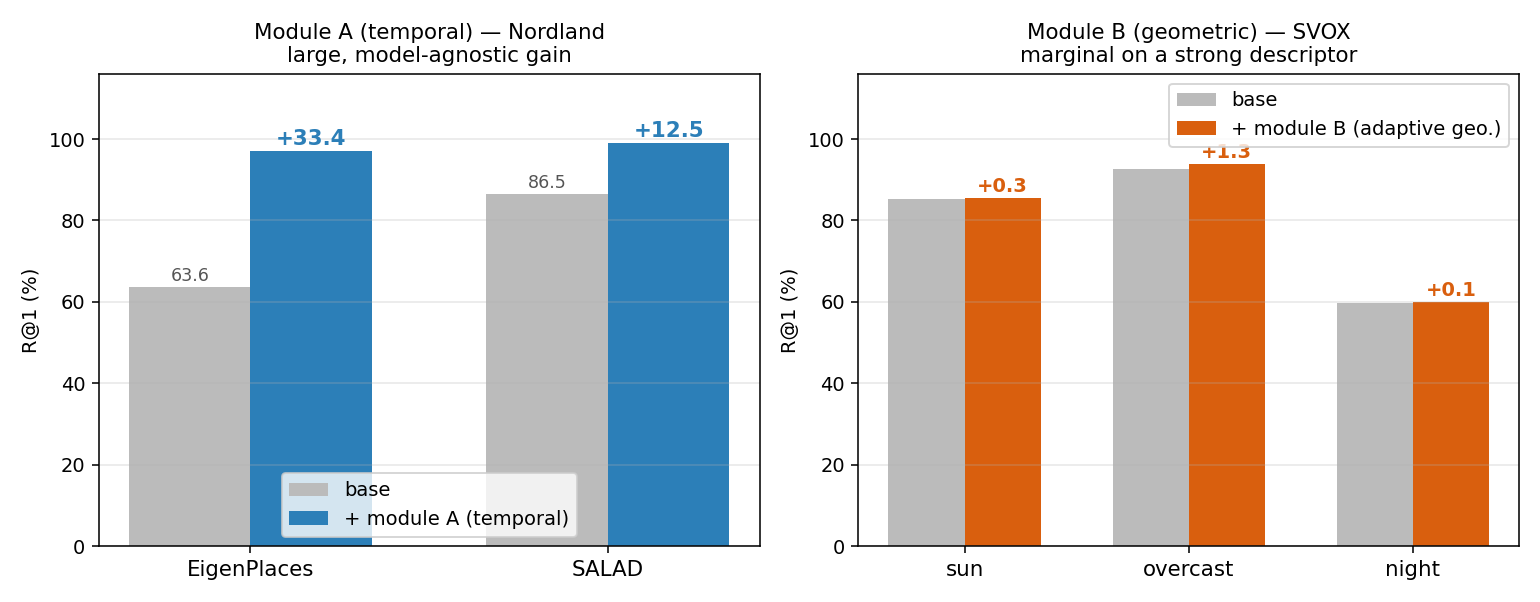
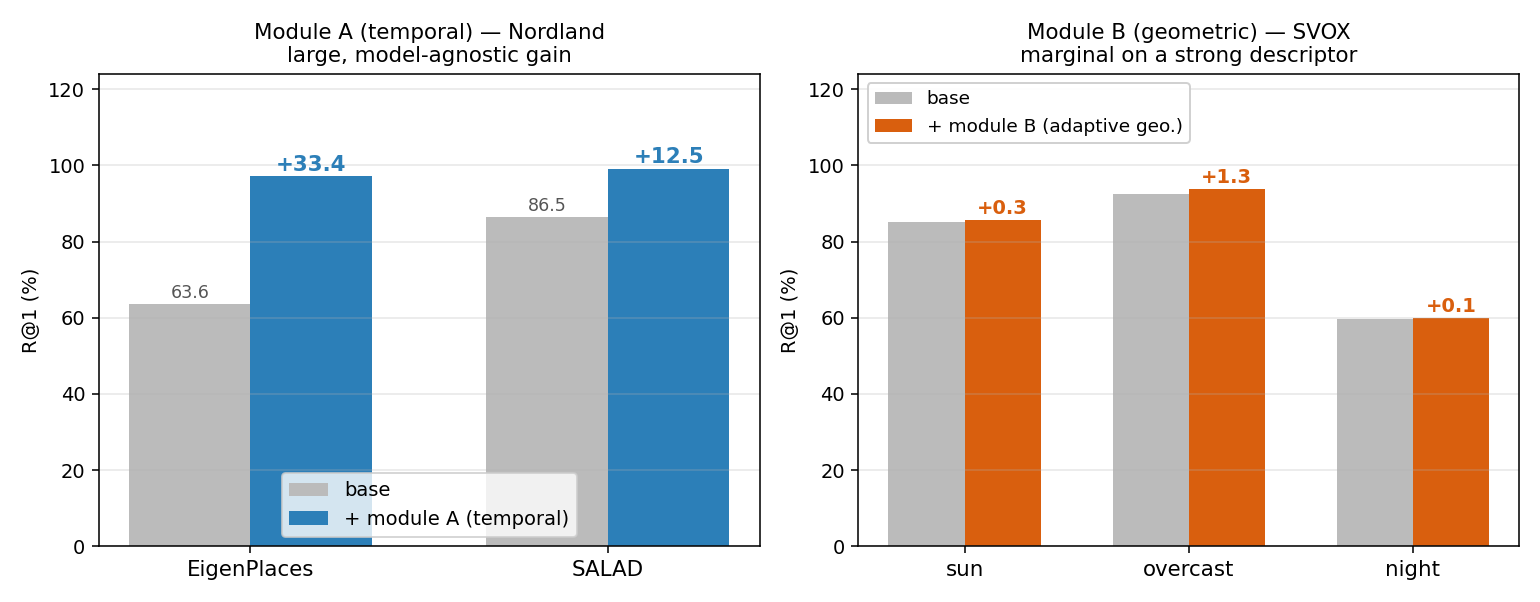
Fix legend overlap in threshold and Module B figures

diff --git a/src/make_slide_figures.py b/src/make_slide_figures.py
@@ -82,7 +82,7 @@ def recall_bars_fixed():
         ax1.text(x[i] + w/2, plus_a[i] + 1.5, f"+{plus_a[i]-base_a[i]:.1f}", ha="center",
                  fontsize=11, color=BLUE, fontweight="bold")
     ax1.set_xticks(x); ax1.set_xticklabels(groups, fontsize=11)
-    ax1.set_ylim(0, 116); ax1.set_ylabel("R@1 (%)")
+    ax1.set_ylim(0, 124); ax1.set_ylabel("R@1 (%)")
     ax1.legend(loc="lower center", fontsize=10)
     ax1.set_title("Module A (temporal) — Nordland\nlarge, model-agnostic gain", fontsize=11)
     ax1.grid(axis="y", alpha=0.3)
@@ -96,8 +96,8 @@ def recall_bars_fixed():
         ax2.text(x2[i] + w/2, adap[i] + 1.5, f"+{adap[i]-base_b[i]:.1f}", ha="center",
                  fontsize=10, color=ORANGE, fontweight="bold")
     ax2.set_xticks(x2); ax2.set_xticklabels(CONDS, fontsize=11)
-    ax2.set_ylim(0, 116); ax2.set_ylabel("R@1 (%)")
-    ax2.legend(loc="upper right", fontsize=10)
+    ax2.set_ylim(0, 124); ax2.set_ylabel("R@1 (%)")
+    ax2.legend(loc="upper left", fontsize=9.5, framealpha=0.92)
     ax2.set_title("Module B (geometric) — SVOX\nmarginal on a strong descriptor", fontsize=11)
     ax2.grid(axis="y", alpha=0.3)
 

diff --git a/src/make_report_figures.py b/src/make_report_figures.py
@@ -27,7 +27,8 @@ def fig_threshold():
         ax.plot(th, ys, st, color=c, lw=2, ms=7, label=name)
     ax.set_xticks(th); ax.set_xlabel("ground-truth tolerance (m)", fontsize=12)
     ax.set_ylabel("R@1 (%)", fontsize=12); ax.set_ylim(50, 102)
-    ax.grid(alpha=0.3); ax.legend(fontsize=10, loc="center right")
+    ax.grid(alpha=0.3)
+    ax.legend(fontsize=9.5, loc="center right", bbox_to_anchor=(0.985, 0.60), framealpha=0.92)
     ax.set_title("Localization precision (Nordland): temporal stays high even at strict 2.5 m\n"
                  "the sequence prior gives precise matches, not just loose ones", fontsize=11.5)
     plt.tight_layout(); plt.savefig(f"{FIG}/fig_threshold_methods.png", dpi=150); plt.close()